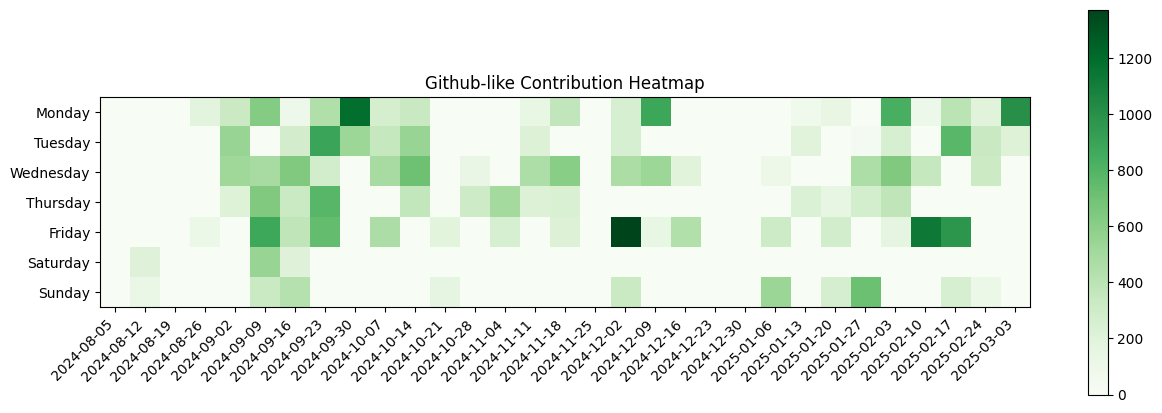
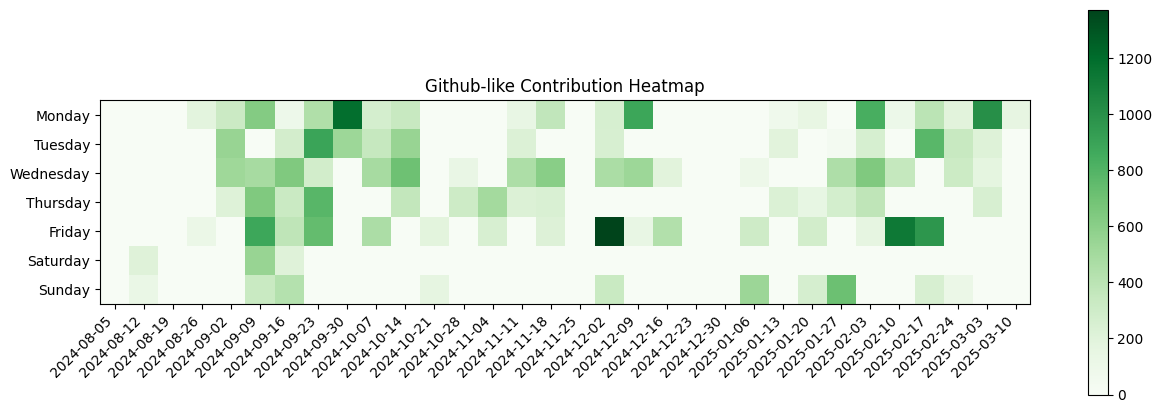
Update

diff --git a/README.md b/README.md
@@ -92,4 +92,7 @@
 20250302 107.71 (4.66-1.29)*32
 20250303 327.98 (6.67-1.02)*58   245.08 (7.05-0.92)*40   429.30 (7.10-0.70)*67
 20250304 211.90 (6.02-1.10)*43
+20250305 170.84 (6.50-1.16)*32
+20250306 251.26 (7.03-0.74)*40
+20250310 152.04 (6.39-0.96)*28
 ```
